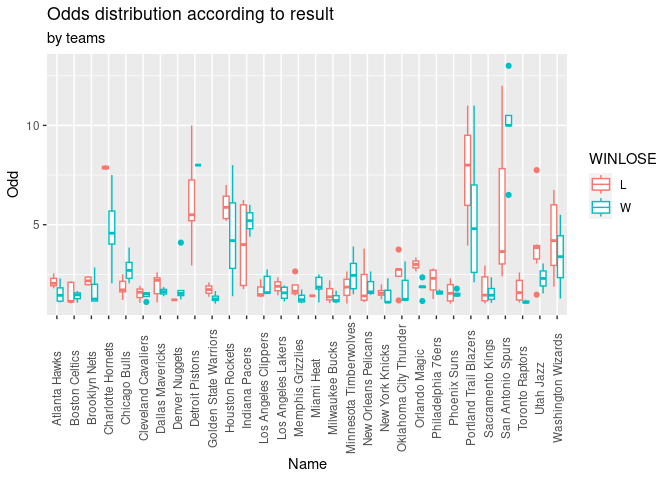
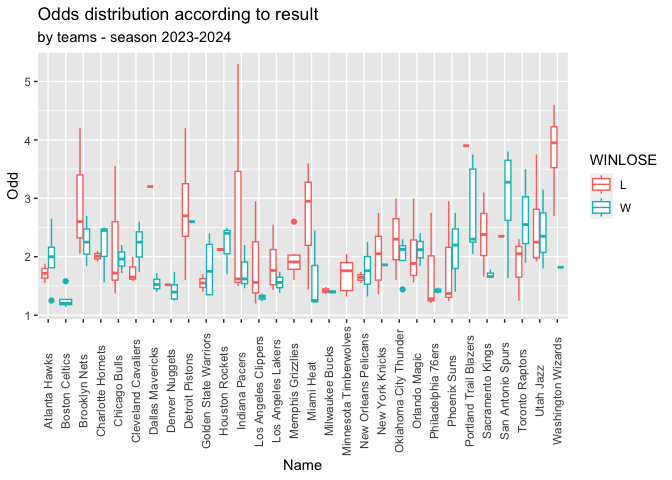
Add nba matchs in data

diff --git a/README.md b/README.md
@@ -30,27 +30,30 @@ You can get NBA results with 1/2 odds for a day.
 ``` r
 library(winaRaque)
 
-get_nba_scores("2023-03-23", pivot_results = TRUE)
-#> # A tibble: 8 × 13
-#>   day_match  matchId set   Name    Odd WINLOSE   PTS FG_PCT FG3_PCT FT_PCT   AST
-#>   <date>       <int> <chr> <chr> <dbl> <chr>   <dbl>  <dbl>   <dbl>  <dbl> <dbl>
-#> 1 2023-03-23  3.54e7 Comp… Broo…  2.4  L         114  0.481   0.353  0.889    24
-#> 2 2023-03-23  3.54e7 Comp… Clev…  1.56 W         116  0.472   0.375  0.769    24
-#> 3 2023-03-23  3.54e7 Comp… Los …  1.56 W         127  0.56    0.486  0.75     34
-#> 4 2023-03-23  3.54e7 Comp… Okla…  2.4  L         105  0.441   0.333  0.909    24
-#> 5 2023-03-23  3.54e7 Comp… New …  1.25 L         115  0.459   0.324  0.933    26
-#> 6 2023-03-23  3.54e7 Comp… Char…  3.9  W          96  0.458   0.243  0.688    24
-#> 7 2023-03-23  3.54e7 Comp… Orla…  2.35 W         111  0.46    0.406  0.857    25
-#> 8 2023-03-23  3.54e7 Comp… New …  1.58 L         106  0.42    0.3    0.769    26
-#> # ℹ 2 more variables: REB <dbl>, TOV <dbl>
+get_nba_scores("2023-10-30", pivot_results = TRUE)
+#> # A tibble: 22 × 13
+#>    day_match   matchId set       Name    Odd WINLOSE   PTS FG_PCT FG3_PCT FT_PCT
+#>    <date>        <int> <chr>     <chr> <dbl> <chr>   <dbl>  <dbl>   <dbl>  <dbl>
+#>  1 2023-10-30 43065447 Competit… Atla…  2    W         127  0.558   0.467  0.944
+#>  2 2023-10-30 43065447 Competit… Minn…  1.76 L         113  0.489   0.485  0.6  
+#>  3 2023-10-30 43065441 Competit… Char…  1.92 L         121  0.49    0.258  0.95 
+#>  4 2023-10-30 43065441 Competit… Broo…  1.84 W         133  0.563   0.364  0.719
+#>  5 2023-10-30 43065459 Competit… Denv…  1.25 W         110  0.56    0.321  0.412
+#>  6 2023-10-30 43065459 Competit… Utah…  3.75 L         102  0.429   0.297  0.467
+#>  7 2023-10-30 43065443 Competit… Indi…  1.62 L         105  0.409   0.261  0.84 
+#>  8 2023-10-30 43065443 Competit… Chic…  2.2  W         112  0.46    0.353  0.839
+#>  9 2023-10-30 43065461 Competit… Los …  1.74 W         106  0.532   0.296  0.778
+#> 10 2023-10-30 43065461 Competit… Orla…  2.05 L         103  0.4     0.4    0.722
+#> # ℹ 12 more rows
+#> # ℹ 3 more variables: AST <dbl>, REB <dbl>, TOV <dbl>
 ```
 
 ## Small data visualization
 
 ``` r
 # the workflow has been taking the odds since 2023-03-20
-seq_date <- seq.Date(from = as.Date("2023-03-19"),
-                     to = as.Date("2023-04-05"),
+seq_date <- seq.Date(from = as.Date("2023-10-24"), # NBA opening 2023-2024
+                     to = Sys.Date(),
                      by = "day")
 list_results <- lapply(seq_date, get_nba_scores, pivot_results = TRUE)
 results <- do.call("rbind", list_results)
@@ -64,7 +67,7 @@ results %>%
   ggplot(aes(x = Name, y = Odd, color = WINLOSE)) +
   geom_boxplot() +
   theme(axis.text.x = element_text(angle = 90, vjust = 0.5)) +
-  ggtitle("Odds distribution according to result", subtitle = "by teams")
+  ggtitle("Odds distribution according to result", subtitle = "by teams - season 2023-2024")
 ```
 
 <img src="man/figures/README-unnamed-chunk-3-1.png" width="100%" />
